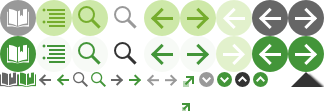
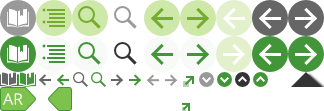
XSLT_S2: add arrows to denote architecture (thanks for making me aware, Tanja)
git-svn-id: svn+ssh://svn.code.sf.net/p/daps/svn/trunk/daps@2432 2c1a2506-8097-4b87-b405-3e90b480097b

Changed region(s): [[0.0, 0.7838, 0.2469, 1.0]]

diff --git a/xslt_suse2/static/css/susebooks.css b/xslt_suse2/static/css/susebooks.css
@@ -1372,6 +1372,39 @@ strong, b, #_content .authorgroup-label, .version-info .productname, .version-in
     font-weight: 600;
 }
 
+.arch {
+    background-color: #7DC24D;
+    border: 1px solid #439539;
+    border-radius: 3px;
+    padding: 0 4px 0 2px;
+    display: inline-block;
+    font-size: 16px;
+    height: 22px;
+    vertical-align:bottom;
+    color: #FFF;
+}
+
+.arch-arrow-start, .arch-arrow-end {
+    background-image: url(../images/icons.png);
+    background-repeat: no-repeat;
+    display: inline-block;
+    font-size: 16px;
+    height: 24px;
+    vertical-align:bottom;
+}
+
+.arch-arrow-start {
+    background-position: -24px -87px;
+    width: 16px;
+    margin-left: -3px;
+}
+
+.arch-arrow-end {
+    background-position: -44px -87px;
+    width: 28px;
+}
+
+
 #_content p, .simplelist td {
     color: #000;
     text-align: left;
